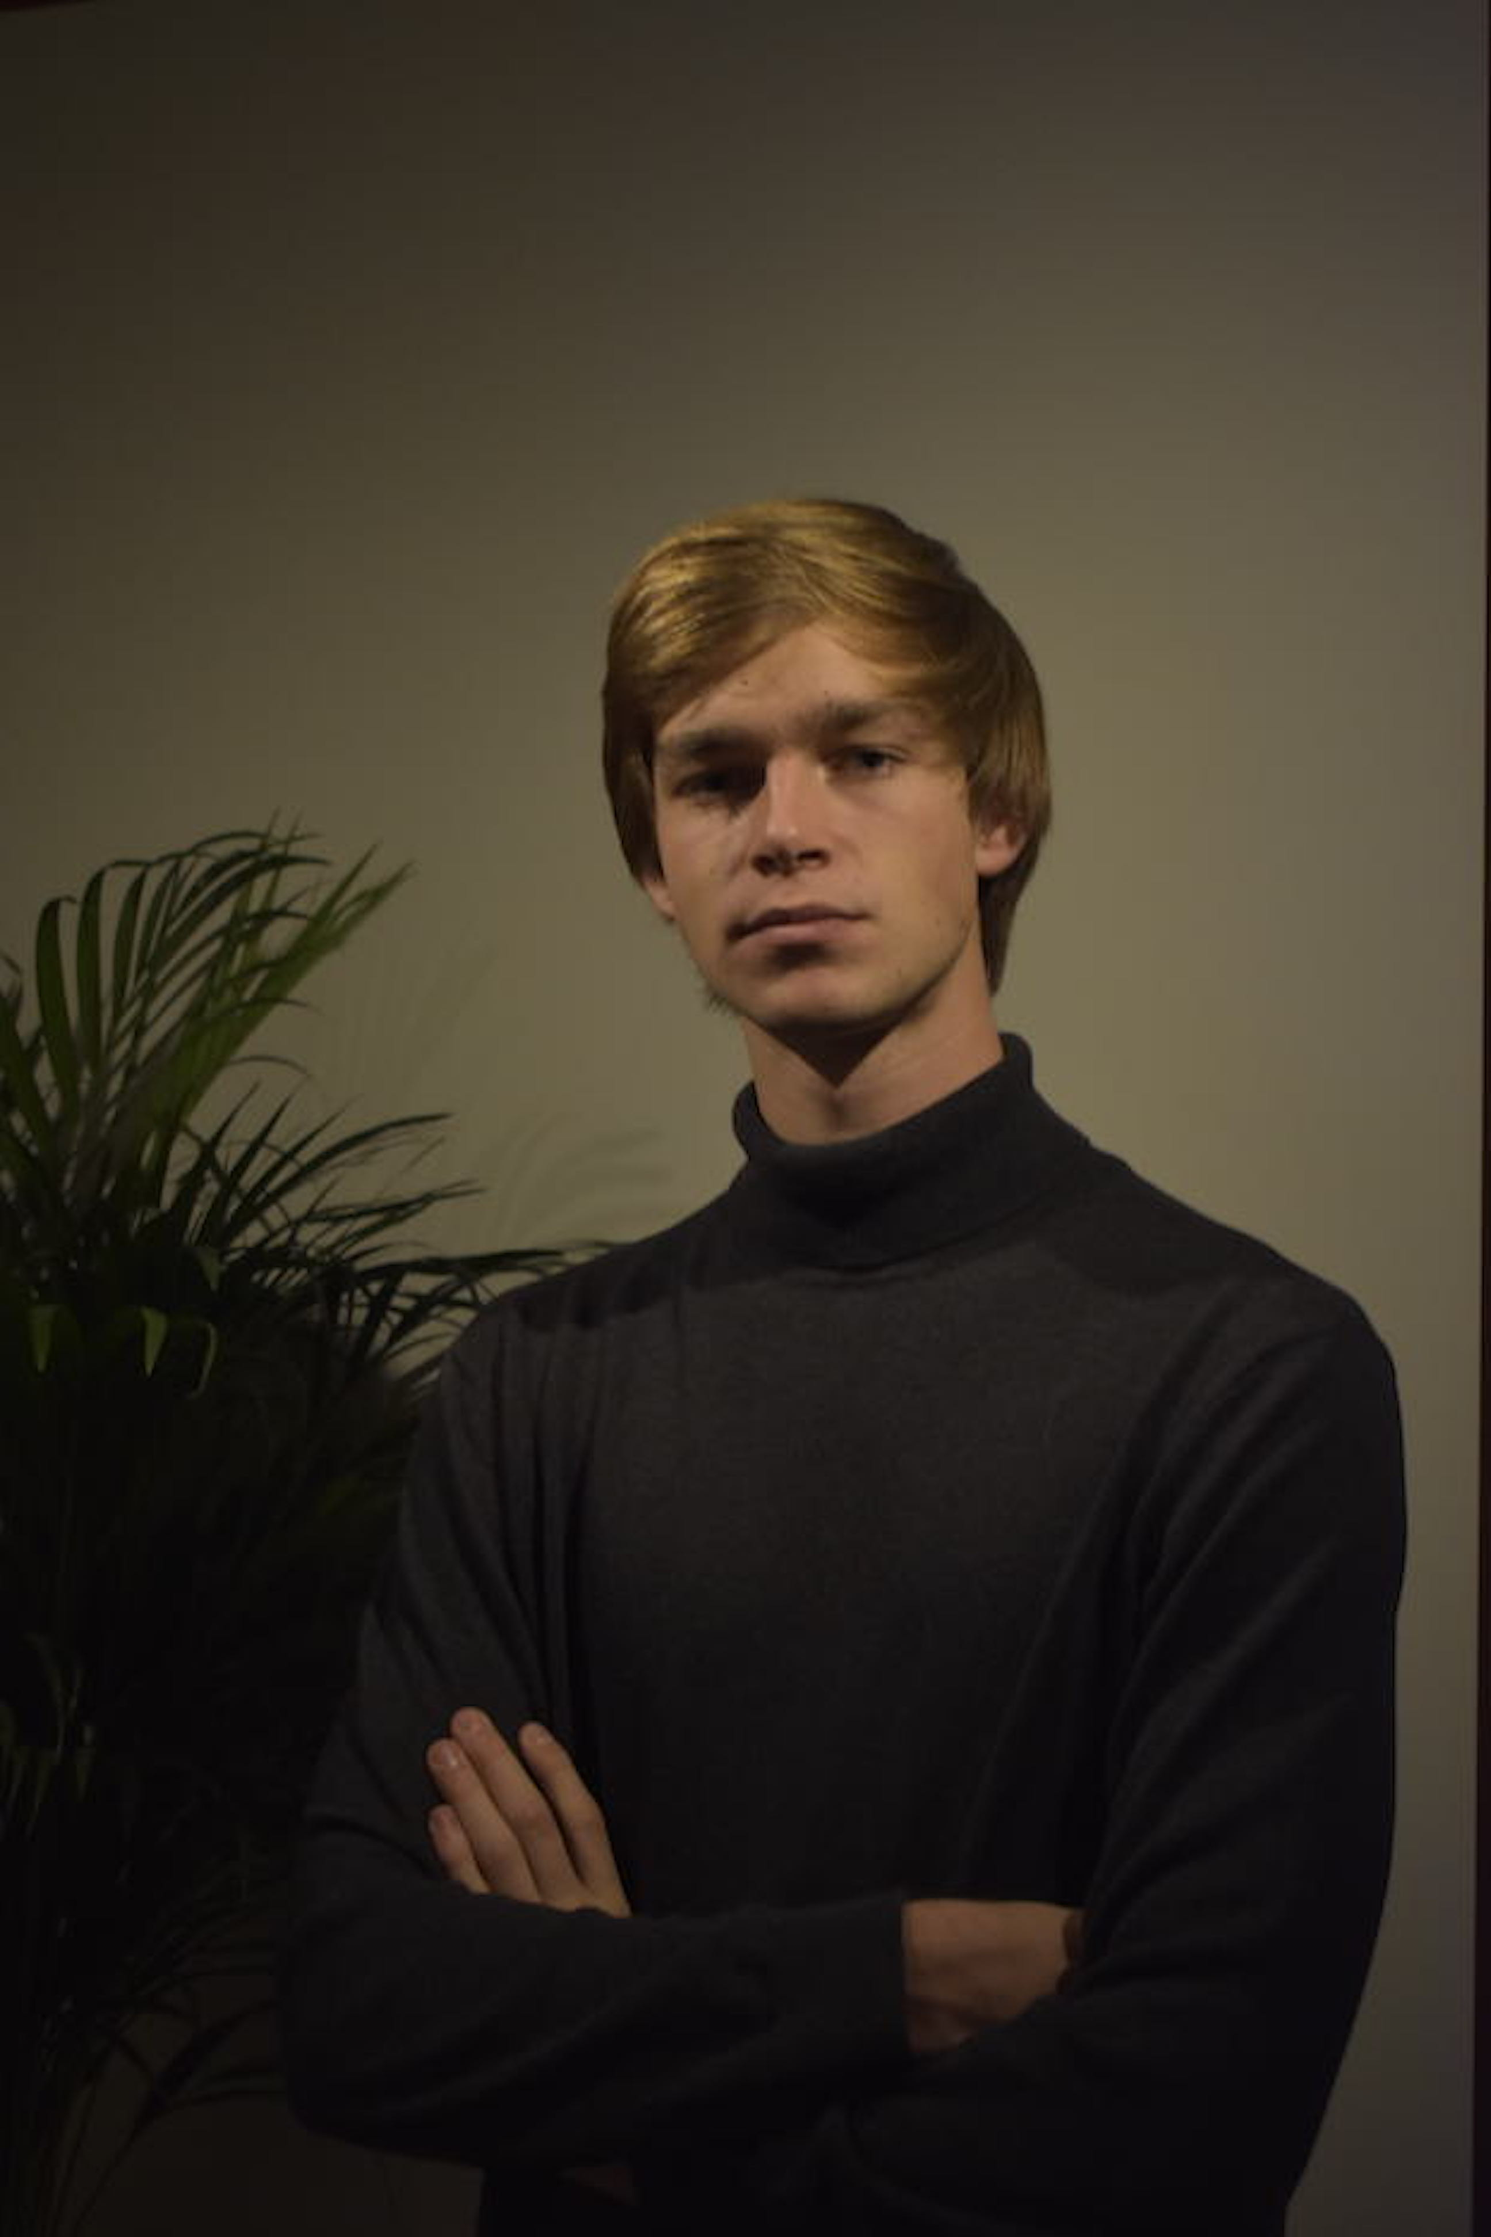
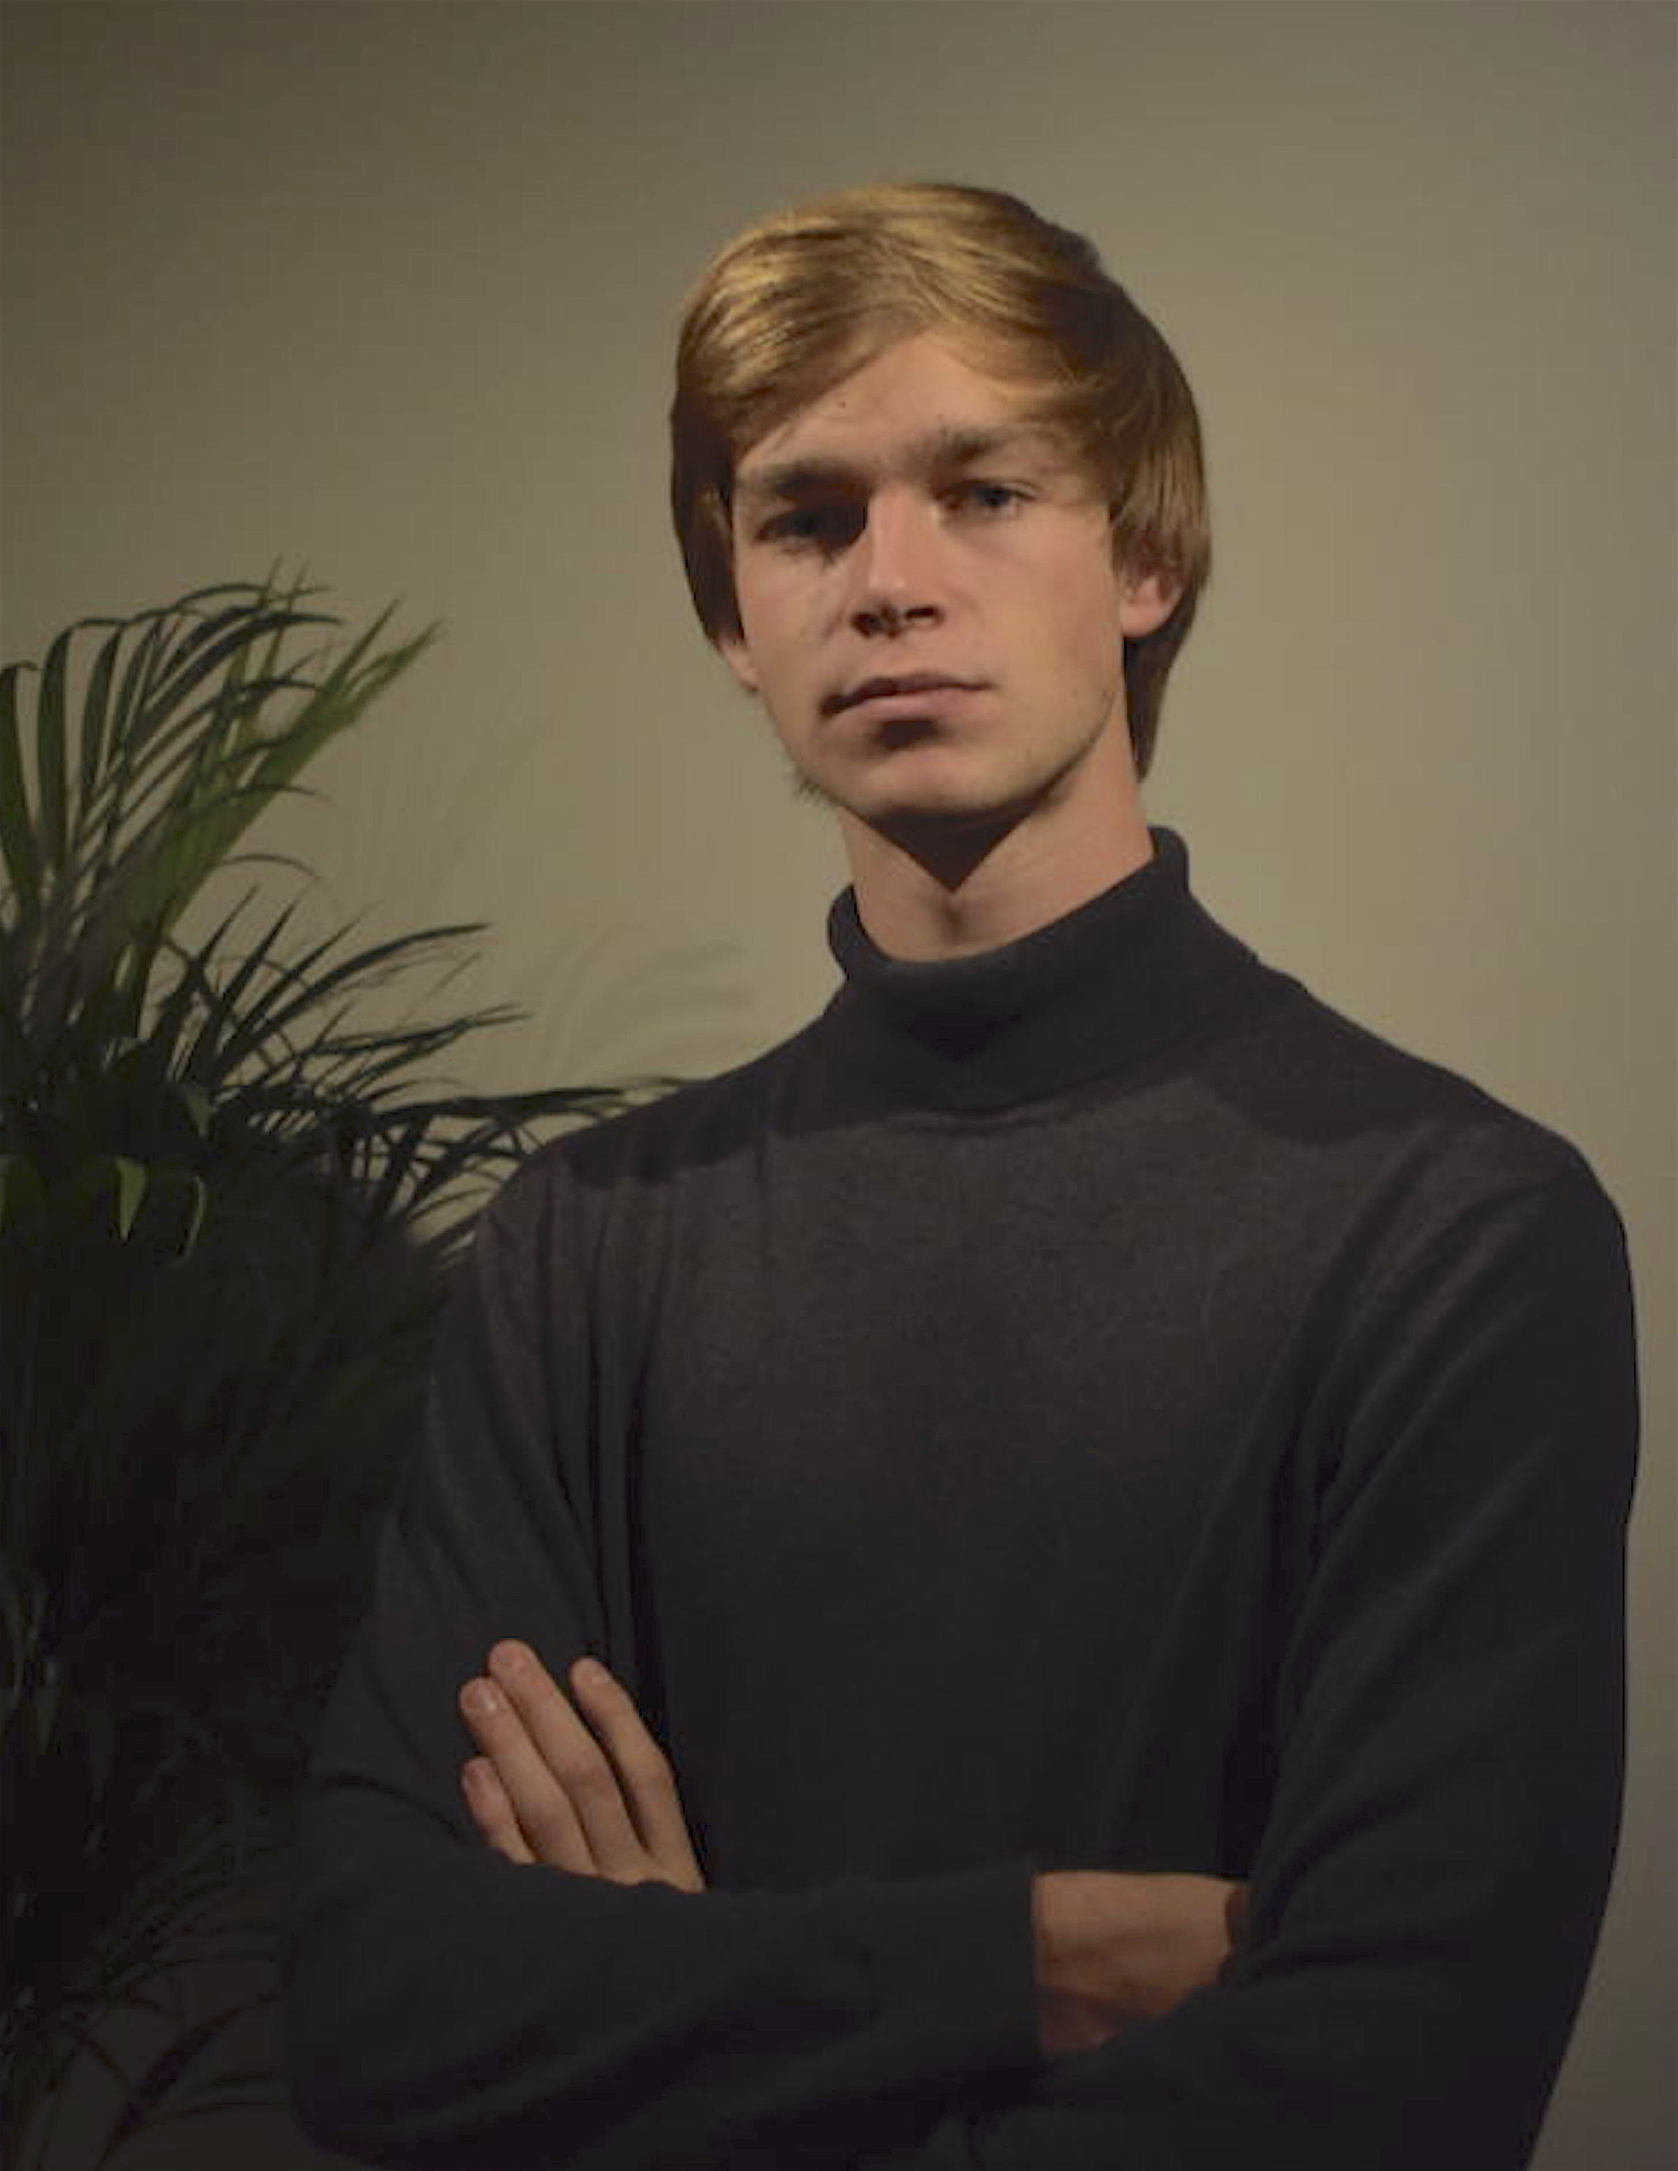
finalised version (no he cambiado el princing,)
creo que estara mejor y mas simple para el customer. Miralo y dime que te parece...

diff --git a/index.html b/index.html
@@ -157,7 +157,7 @@
 <div class="col-lg-5 align-self-center mr-auto text-left heading-section mb-5">
 
 
-<p class="text-muted mb-4">At Volta, we work hand in hand with you to build the perfect website. We will ask you to fill out a basic questionnaire and will make sure to give you 3 different template options, based on your questionnaire answers to inspire you. Once you have decided what template you like best we will talk about specific aspects such as how much information you need on your website or what package we believe would be the most convenient for you. After that, it is hands-on! We will work non-stop to produce a finalised version of your website which you will fall in love with. We will do all this while keeping in mind our following objectives:
+<p class="text-muted mb-4">At Volta, we work hand in hand with you to build the perfect website. We will ask you to fill out a basic questionnaire and will make sure to give you 3 different template options to inspire you, based on your questionnaire answers. Once you have decided what template you like best we will talk about specific aspects such as how much information you need on your website or what package we believe would be the most convenient for you. After that, it is hands-on! We will work non-stop to produce a finalised version of your website which you will fall in love with. We will do all this while keeping in mind our following objectives:
 </p>
 <ul class="list-unstyled ul-paw primary mb-0">
 <li>Being small and staying small</li>
@@ -255,12 +255,12 @@
 <div class="row">
 <div class="col-md-6 mb-6 col-lg-6" data-aos="fade-up" data-aos-delay="">
 <div class="trainer">
-<figure class="rotateimg180">
-<img src="images/soumah.JPG" alt="Image" class="img-fluid">
+<figure>
+<img src="images/soumah.JPG" alt="Image" class="img-fluid developer_img">
 </figure>
 <div class="px-md-3">
 <h3>Alejandro Soumah</h3>
-<p>Confounder of Volta. Has extensive experience in the field of web development. Mastering HTML5, CS4, Bootstrap, Javascript, and analytics.</p>
+<p>Confounder of Volta. Has extensive experience in the field of web development. Mastering HTML5, CSS4, Bootstrap, Javascript, and analytics.</p>
 <!--<ul class="ul-social-circle">
 <li><a href="#"><span class="icon-twitter"></span></a></li>
 <li><a href="#"><span class="icon-instagram"></span></a></li>
@@ -271,12 +271,12 @@
 </div>
 <div class="col-md-6 mb-6 col-lg-6" data-aos="fade-up" data-aos-delay="100">
 <div class="trainer">
-<figure class="rotateimg180">
-<img src="images/poole.JPG" alt="Image" class="img-fluid">
+<figure>
+<img src="images/poole.JPG" alt="Image" class="img-fluid developer_img1">
 </figure>
 <div class="px-md-3">
 <h3>Nicholas Poole-Warren</h3>
-<p>Cofounder of Volta. Has developed websites in the past, has experience in HTML5, CS4, and Bootstrap as well as SEO techniques.</p>
+<p>Cofounder of Volta. Has great experience in web design, HTML5, CSS4, and Bootstrap as well as maintenance and SEO techniques.</p>
 <!--<ul class="ul-social-circle">
 <li><a href="#"><span class="icon-twitter"></span></a></li>
 <li><a href="#"><span class="icon-instagram"></span></a></li>
@@ -328,10 +328,10 @@
 <ul class="list-unstyled ul-check success mb-5">
 <li>Single Page</li>
 <li>Contact : Email (1 day response max)</li>
-<li >Time completion : 2 weeks max</li>
-<li >Quantity of info : 1-3 pages</li>
-<li > Hours of custom changes after website completion - 2 hours</li>
-<li >Icons/links to social media accounts- 2 weeks max</li>
+<li>Time completion : 2 weeks max</li>
+<li>Quantity of info : 1-3 pages</li>
+<li>Hours of custom changes after website completion - 2 hours</li>
+<li>Icons/links to social media accounts- 2 weeks max</li>
 <li>Responsive </li>
 <li>Incorporation of contact form via email </li>
 
@@ -354,8 +354,8 @@ Multi-Page (up to 5 pages)
 </li>
 <li>Contact : Email (5-hour response max)</li>
 <li>Time completion : 3 weeks max</li>
-<li> Quantity of info: 1 - 5 pages</li>
-<li > Hours of custom changes after website completion : 4 hours</li>
+<li>Quantity of info: 1 - 5 pages</li>
+<li>Hours of custom changes after website completion : 4 hours</li>
 <li>Icons/links to social media accounts</li>
 <li>Responsive </li>
 <li>Incorporation of contact form via email </li>
@@ -376,8 +376,8 @@ Multi-Page (up to 5 pages)
   <li>Multi-Page (up to 8 pages)</li>
   <li>Contact : WhatsApp (1-hour response max)</li>
   <li>Time completion : 3 weeks max</li>
-  <li> Quantity of info: 1 - 10 pages</li>
-  <li > Hours of custom changes after website completion : 6 hours</li>
+  <li>Quantity of info: 1 - 10 pages</li>
+  <li>Hours of custom changes after website completion : 6 hours</li>
   <li>Icons/links to social media accounts</li>
   <li>Responsive </li>
   <li>Incorporation of contact form via email </li>

diff --git a/css/style.css b/css/style.css
@@ -1900,11 +1900,11 @@ figure figcaption {
 .trainer:hover figure:before {
   top: 10px;
   left: 10px;
-  background: #405a58; }
+  background: #a9b4ba; }
 
 .trainer h3 {
   font-size: 1.3rem;
-  color: #405a58;
+  color: #000000;
   margin-bottom: 1.3rem; }
 
 .trainer .ul-social-circle li a {
@@ -2219,7 +2219,15 @@ figure figcaption {
 }
 
 .about_us_img{
-  filter: grayscale(35%);
+  filter: grayscale(55%);
+}
+
+.developer_img{
+  filter: grayscale(15%);
+}
+
+.developer_img1{
+  filter: grayscale(5%);
 }
 
 .rotateimg180 {
